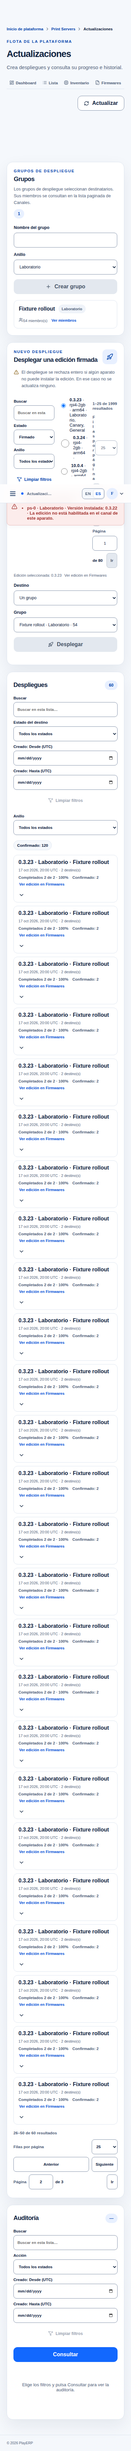
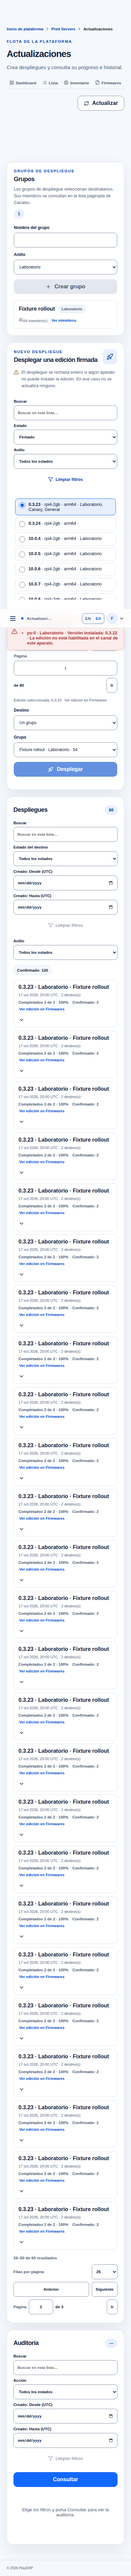
fix(portal): finish owner wording and rollout catalogue layout

Changed region(s): [[0.0923, 0.0312, 0.8923, 0.9994], [0.0615, 0.0, 0.5538, 0.0312], [0.6462, 0.0, 0.6769, 0.0625]]

diff --git a/src/styles.css b/src/styles.css
@@ -624,3 +624,50 @@ input:focus-visible{outline:2px solid var(--focus);outline-offset:2px}
   .pe474-channels-table :is(th,td):nth-child(3) { min-width: 160px; }
   .pe474-channels-table :is(th,td):nth-child(7) { min-width: 150px; }
 }
+/* Keep the deployment catalogue as one full-width block inside the form grid. */
+.ota-deploy-form > .ota-wide:first-child {
+  display: grid;
+  grid-column: 1 / -1;
+  grid-template-columns: minmax(0, 1fr);
+  gap: 12px;
+  width: 100%;
+  min-width: 0;
+}
+.ota-deploy-form .ota-edition-picker {
+  display: grid;
+  grid-template-columns: minmax(0, 1fr);
+  gap: 6px;
+  width: 100%;
+  max-height: 19rem;
+  padding: 4px;
+  overflow-y: auto;
+  overflow-x: hidden;
+}
+.ota-deploy-form .ota-edition-picker .ota-radio {
+  display: flex;
+  align-items: flex-start;
+  gap: 10px;
+  min-width: 0;
+  padding: 9px 11px;
+  border: 1px solid var(--line);
+  border-radius: 9px;
+  cursor: pointer;
+}
+.ota-deploy-form .ota-edition-picker .ota-radio:has(input:checked) {
+  border-color: var(--blue);
+  background: var(--blue-soft);
+}
+.ota-deploy-form .ota-edition-picker .ota-radio span {
+  min-width: 0;
+  overflow-wrap: anywhere;
+}
+.fw-form .ota-edition-picker input[type=radio] {
+  width: 18px;
+  height: 18px;
+  min-width: 18px;
+  min-height: 18px;
+  margin: 1px 0 0;
+  padding: 0;
+  flex: none;
+  accent-color: var(--blue);
+}

diff --git a/src/locales/es.ts b/src/locales/es.ts
@@ -1029,7 +1029,7 @@ export const es: Record<keyof typeof en, string> = {
   'legacy.fingerprintHelp': 'Usa hex contiguos o pares separados por dos puntos. Se admiten mayúsculas, minúsculas y espacios alrededor. No se admite el prefijo OpenSSL. Compara la huella de la CA pública, no la del certificado del servidor HTTPS.',
   'legacy.requirements': 'Introduce el valor y la evidencia de CA coincidente y confirma expresamente la comprobación física.',
   'firmware.compatibility': 'Modelo, arquitectura y política de edición',
-  'firmware.stableRing': 'General: edición firmada y publicada tras confirmación canary',
+  'firmware.stableRing': 'Edición firmada y compatible disponible para este dueño',
   'firmware.ownerReadOnly': 'Solo el dueño del local puede solicitar una actualización publicada en General.',
   'firmware.adminCandidate': 'Última edición compatible y firmada para este anillo',
   'firmware.newestSigned': 'Edición firmada más reciente',

diff --git a/src/locales/en.ts b/src/locales/en.ts
@@ -1027,7 +1027,7 @@ export const en = {
   'legacy.fingerprintHelp': 'Use contiguous hex or pairs separated by colons. Letter case and surrounding spaces are accepted. The OpenSSL prefix is not accepted. Compare the public CA fingerprint, not the HTTPS server certificate.',
   'legacy.requirements': 'Enter the value and matching CA evidence, then explicitly confirm the physical check.',
   'firmware.compatibility': 'Model, architecture and release policy',
-  'firmware.stableRing': 'General: signed release published after canary confirmation',
+  'firmware.stableRing': 'Signed, compatible edition available to this owner',
   'firmware.ownerReadOnly': 'Only the venue owner can request an update published in General.',
   'firmware.adminCandidate': 'Latest compatible signed release for this ring',
   'firmware.newestSigned': 'Newest signed release',

diff --git a/docs/evidence/pe474/review-gaby.md b/docs/evidence/pe474/review-gaby.md
@@ -8,3 +8,5 @@ Encontró dos notas menores:
 2. El detalle de rechazo de despliegue mostraba códigos crudos y UUID sin navegación. Lily tradujo el motivo y añadió enlace a Canales con búsqueda por la identidad del PS, sin inventar un serial que el servidor no devuelve.
 
 Gaby volvió a leer ambas correcciones y confirmó: «Ambas correcciones están resueltas en el código inspeccionado». No encontró `group_id` en los cambios de canal; comprobó los parámetros de concurrencia, las lecturas paginadas, límite de 20 del selector y ausencia de hashes/canales internos en owner. La validación de tests, build y navegador corresponde a Uma y se registra por separado.
+
+Comprobación visual final: Uma detectó texto heredado de confirmación Canary en owner y el catálogo de despliegue estrecho. Lily corrigió EN/ES y el diseño; Uma fijó `type="button"` en el reintento de catálogo para que no envíe el formulario. Gaby verificó los tres ajustes: owner no renderiza anillos internos ni ACK, la acción depende de la respuesta General del servidor, el catálogo ocupa el ancho disponible y el reintento no envía despliegues. Sin regresiones observadas en lectura.
